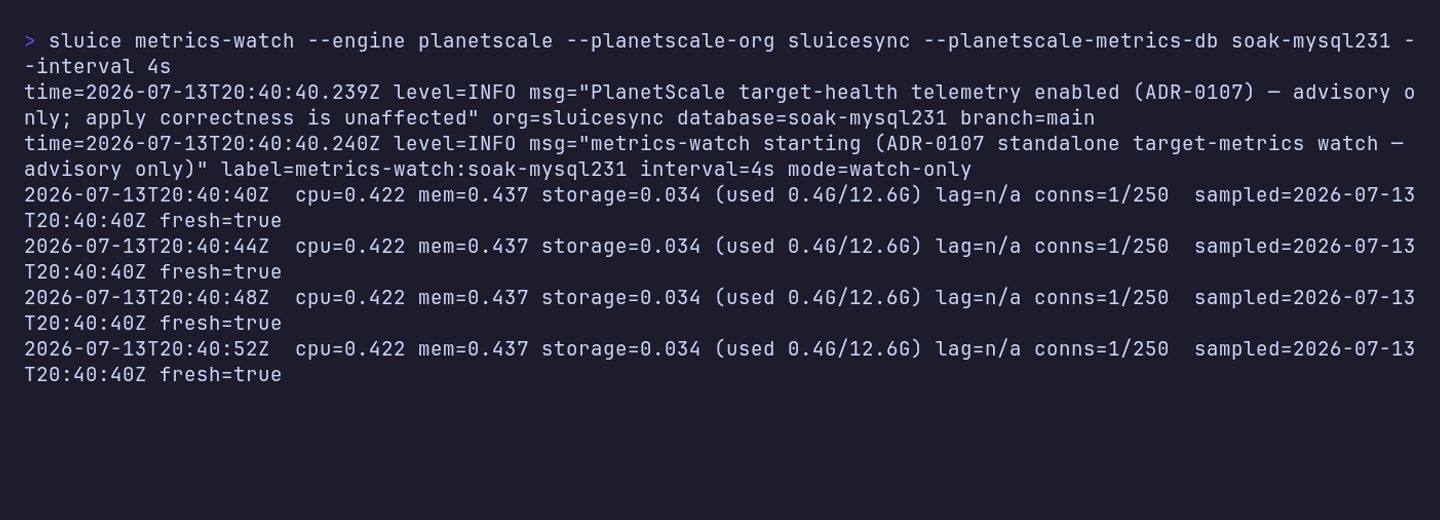
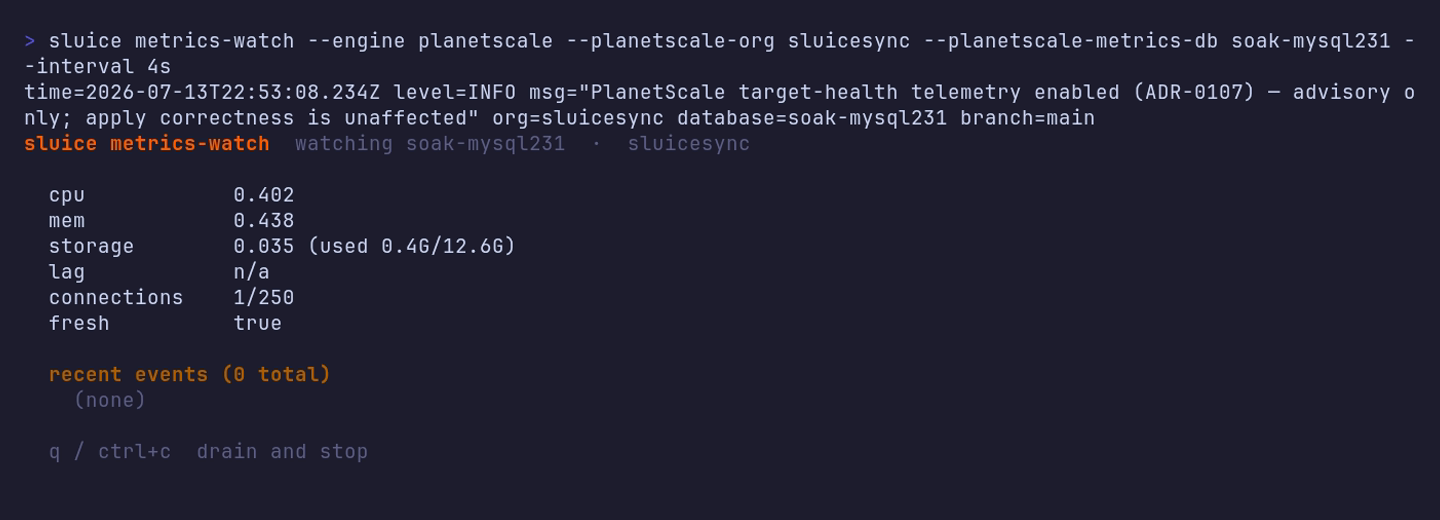
screenshots: metrics-watch now shows the live status panel (v0.99.239, ADR-0156 phase 3)

Changed region(s): [[0.0, 0.2462, 1.0, 0.8], [0.0312, 0.8615, 0.25, 0.8923], [0.1562, 0.1538, 0.2188, 0.1846]]

diff --git a/screenshots/index.html b/screenshots/index.html
@@ -70,8 +70,8 @@
     <div class="grid n1"><figure class="shot"><div class="frame"><img src="/assets/screenshots/sync-health.png" alt="Probe" loading="lazy"></div><figcaption><span class="step">Probe</span>Per-stream state, seconds-since-apply, lag, and spill.</figcaption></figure></div>
   </section>
   <section class="cmd-shot">
-    <div class="head"><h2><code>metrics-watch</code></h2><p>Live PlanetScale target metrics — storage, CPU, replica lag — sampled and alerted on.</p></div>
-    <div class="grid n1"><figure class="shot"><div class="frame"><img src="/assets/screenshots/metrics-watch.png" alt="Sampling" loading="lazy"></div><figcaption><span class="step">Sampling</span>Live CPU, memory, storage, and connection metrics — sampled on a cadence, with threshold alerts.</figcaption></figure></div>
+    <div class="head"><h2><code>metrics-watch</code></h2><p>Live PlanetScale target metrics as a status panel — CPU, memory, storage, lag, and connections, sampled on a cadence, with threshold breaches surfaced as live events.</p></div>
+    <div class="grid n1"><figure class="shot"><div class="frame"><img src="/assets/screenshots/metrics-watch.png" alt="Watching" loading="lazy"></div><figcaption><span class="step">Watching</span>The live metrics panel; breaches appear in the events region.</figcaption></figure></div>
   </section>
   <section class="cmd-shot">
     <div class="head"><h2><code>notifications</code></h2><p>Threshold-breach alerts as a rendered HTML email (or Slack / webhook) — advisory, failure-isolated, never affecting the sync.</p></div>